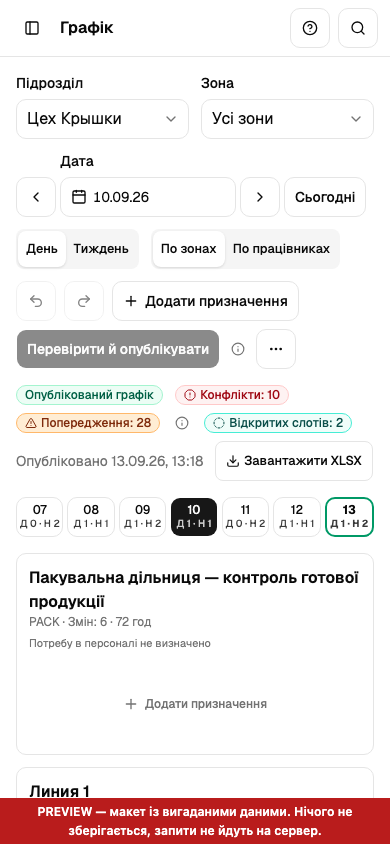
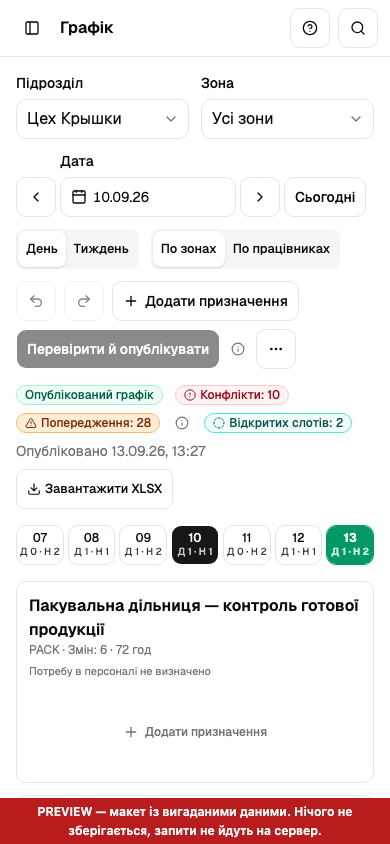
fix(schedule): outline today's column like a wall-calendar slider
A solid emerald day header and a bright inset-shadow frame down the
whole column (closed at the bottom), which collapsed borders and the
rounded table container cannot clip; the list layout marks today's day
button the same way.

diff --git a/apps/admin-web/src/shared/ui/resource-calendar/resource-calendar.tsx b/apps/admin-web/src/shared/ui/resource-calendar/resource-calendar.tsx
@@ -281,7 +281,9 @@ export function ResourceCalendar(props: ResourceCalendarProps) {
                 aria-pressed={selectedDate === date.id}
                 className={cn(
                   'min-h-11 min-w-11 flex-1 flex-col gap-0 px-1 text-xs leading-tight',
-                  date.today && 'border-2 border-emerald-600 font-bold dark:border-emerald-400',
+                  date.today &&
+                    selectedDate !== date.id &&
+                    'border-emerald-600 bg-emerald-600 font-bold text-white hover:bg-emerald-700 hover:text-white dark:border-emerald-500 dark:bg-emerald-500 dark:text-emerald-950',
                 )}
                 onClick={() => onDate(date.id)}
               >
@@ -345,7 +347,7 @@ export function ResourceCalendar(props: ResourceCalendarProps) {
                     className={cn(
                       'w-34 whitespace-normal px-2 py-1.5 text-center align-top',
                       date.today &&
-                        'border-x-2 border-t-2 border-emerald-600 bg-emerald-50/70 dark:border-emerald-400 dark:bg-emerald-950/40',
+                        'bg-emerald-600 text-white dark:bg-emerald-500 dark:text-emerald-950',
                       date.readonly && 'bg-muted/40 text-muted-foreground',
                       date.holiday && 'bg-rose-50/70 dark:bg-rose-950/40',
                     )}
@@ -353,27 +355,38 @@ export function ResourceCalendar(props: ResourceCalendarProps) {
                     <span
                       className={cn(
                         'block font-medium',
-                        date.today
-                          ? 'font-bold text-emerald-800 dark:text-emerald-200'
-                          : 'text-foreground',
+                        date.today ? 'font-bold text-inherit' : 'text-foreground',
                       )}
                     >
                       {date.label}
                     </span>
                     {date.summary && (
-                      <span className="block text-[11px] font-normal text-muted-foreground tabular-nums">
+                      <span
+                        className={cn(
+                          'block text-[11px] font-normal tabular-nums',
+                          date.today ? 'text-inherit opacity-90' : 'text-muted-foreground',
+                        )}
+                      >
                         {date.summary}
                       </span>
                     )}
                     {date.holiday && (
-                      <span className="block text-[11px] font-normal text-rose-700 dark:text-rose-300">
+                      <span
+                        className={cn(
+                          'block text-[11px] font-normal',
+                          date.today ? 'text-inherit' : 'text-rose-700 dark:text-rose-300',
+                        )}
+                      >
                         🎉 {date.holiday}
                       </span>
                     )}
                     {date.events?.map((event) => (
                       <span
                         key={event}
-                        className="block text-[11px] font-normal text-violet-700 dark:text-violet-300 [overflow-wrap:anywhere]"
+                        className={cn(
+                          'block text-[11px] font-normal [overflow-wrap:anywhere]',
+                          date.today ? 'text-inherit' : 'text-violet-700 dark:text-violet-300',
+                        )}
                       >
                         {event}
                       </span>
@@ -402,11 +415,13 @@ export function ResourceCalendar(props: ResourceCalendarProps) {
                       key={cell.date}
                       className={cn(
                         'whitespace-normal p-1.5 align-top',
+                        // Wall-calendar slider: a solid frame drawn with inset shadows, which
+                        // neither the collapsed borders nor the rounded container can clip.
                         model.dates[index]?.today &&
-                          'border-x-2 border-emerald-600 bg-emerald-50/30 dark:border-emerald-400 dark:bg-emerald-950/20',
+                          'bg-emerald-50 shadow-[inset_3px_0_0_var(--color-emerald-600),inset_-3px_0_0_var(--color-emerald-600)] dark:bg-emerald-950/40 dark:shadow-[inset_3px_0_0_var(--color-emerald-500),inset_-3px_0_0_var(--color-emerald-500)]',
                         model.dates[index]?.today &&
                           rowIndex === rows.length - 1 &&
-                          'border-b-2 border-b-emerald-600 dark:border-b-emerald-400',
+                          'shadow-[inset_3px_0_0_var(--color-emerald-600),inset_-3px_0_0_var(--color-emerald-600),inset_0_-3px_0_var(--color-emerald-600)] dark:shadow-[inset_3px_0_0_var(--color-emerald-500),inset_-3px_0_0_var(--color-emerald-500),inset_0_-3px_0_var(--color-emerald-500)]',
                         model.dates[index]?.readonly && 'bg-muted/30',
                       )}
                     >
